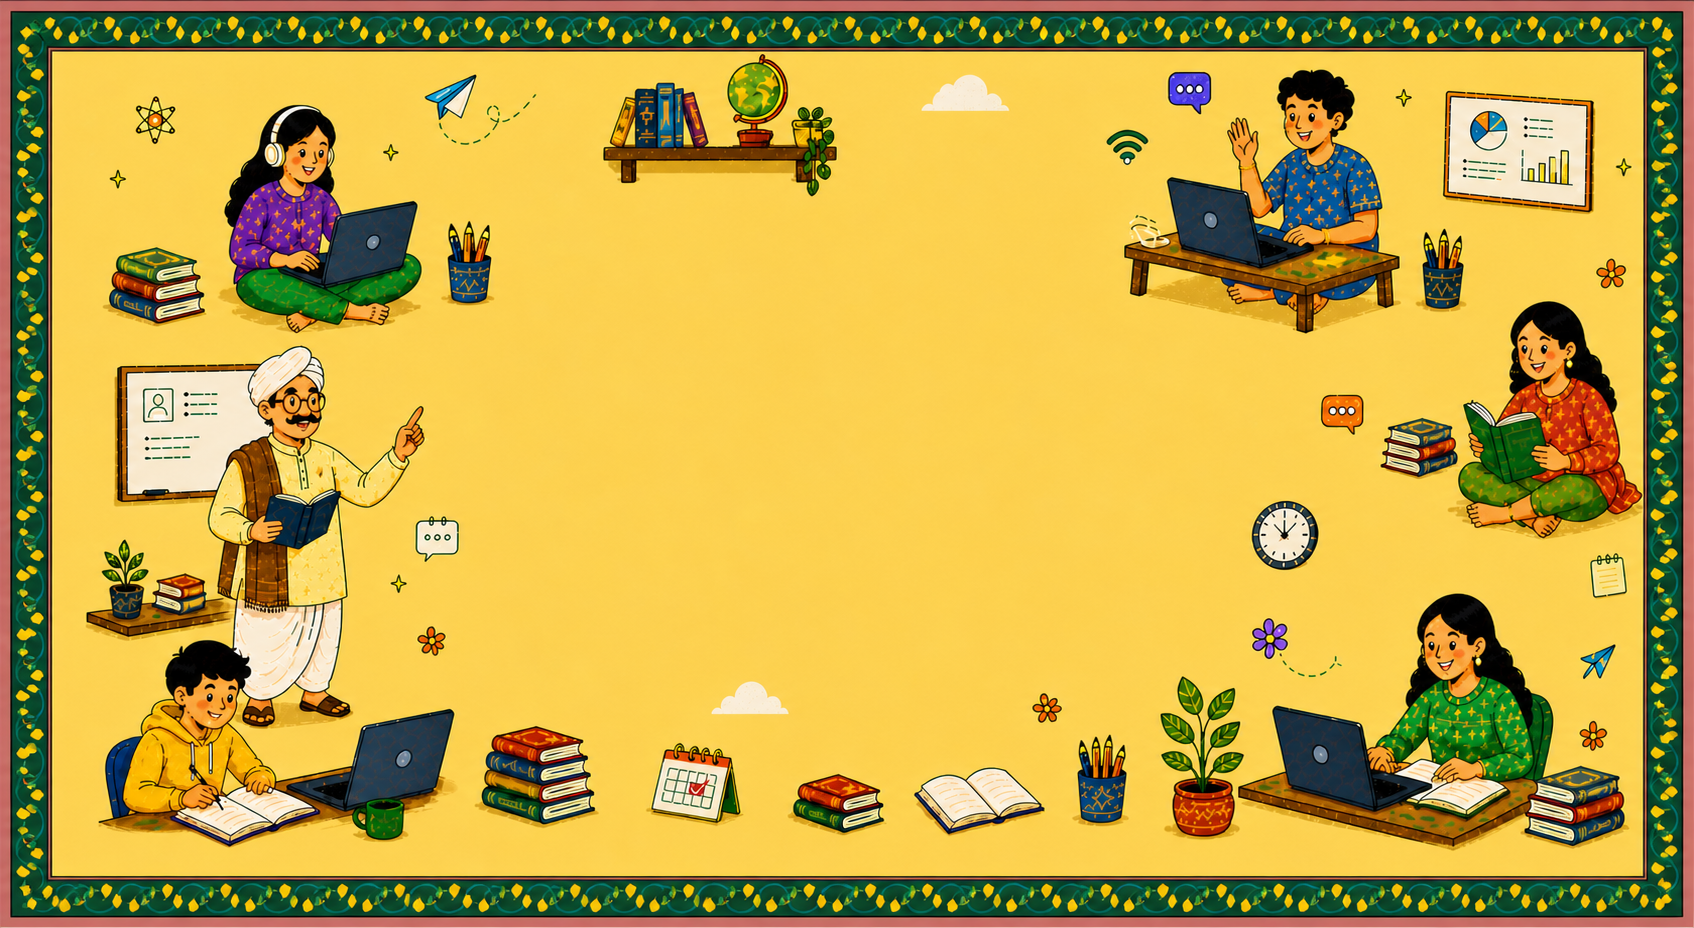
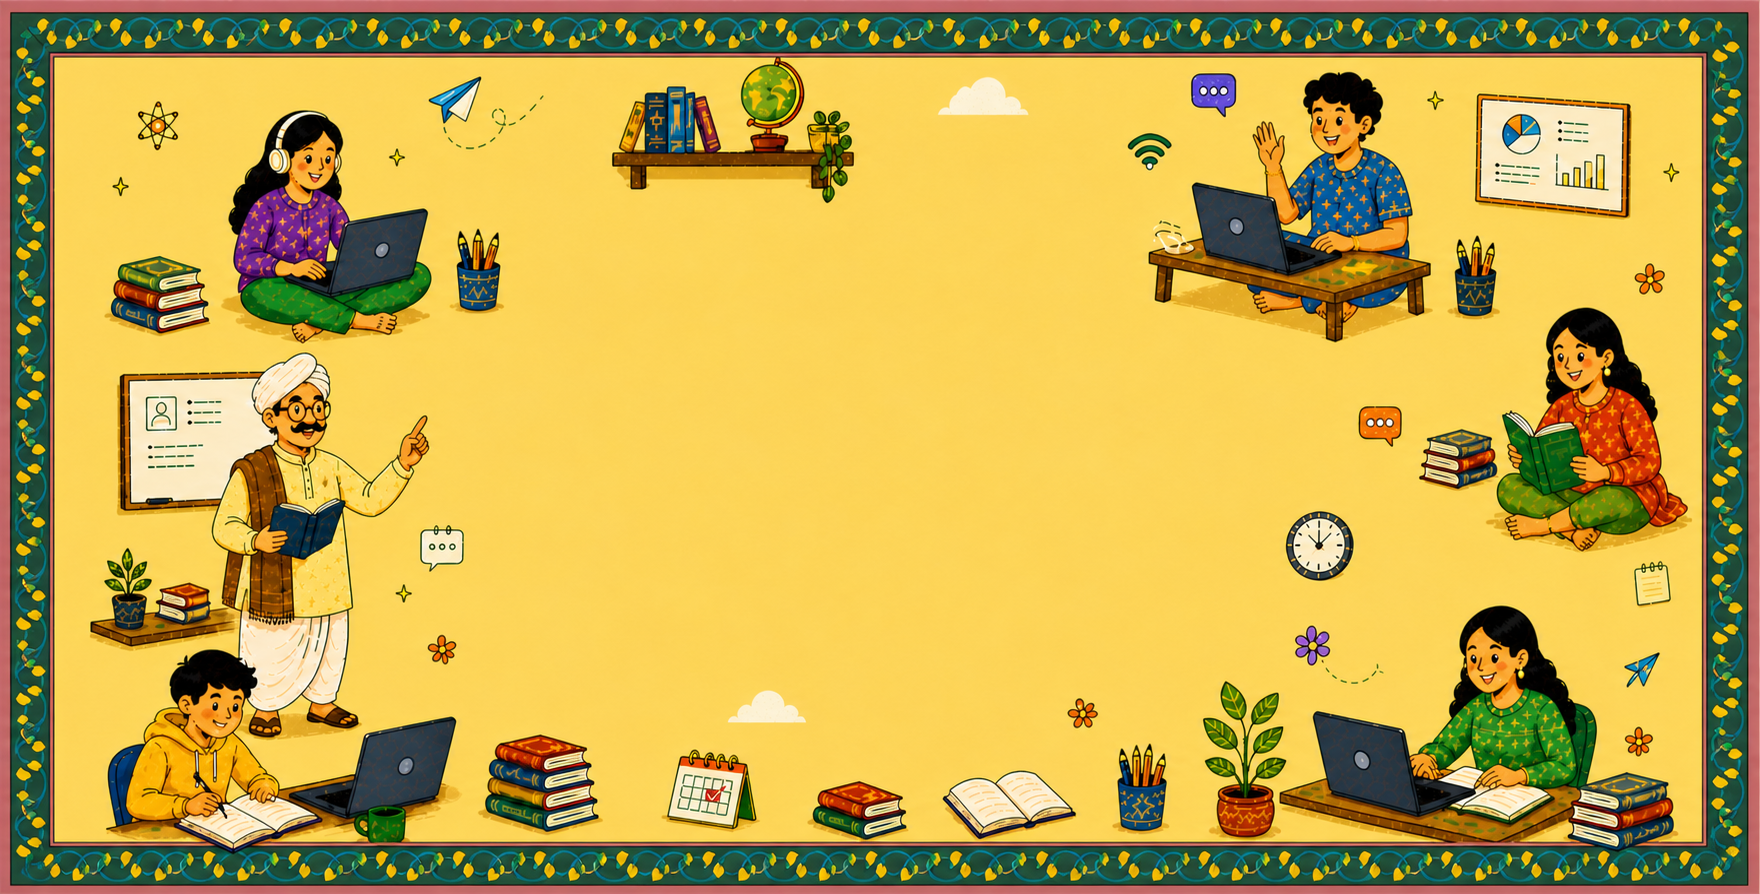
Background borders optimized

diff --git a/app/globals.css b/app/globals.css
@@ -969,18 +969,16 @@ h1 {
   position: absolute;
   inset: var(--home-frame-size);
   z-index: 0;
-  background:
-    radial-gradient(circle at 22% 28%, rgba(255, 255, 255, 0.42), transparent 24rem),
-    linear-gradient(135deg, #ffe372 0%, #f6c94c 46%, #f7a54f 100%);
+  background: url("/meetigate-home-background.png") center / 103% auto no-repeat;
 }
 
 .home-bg-art {
   inset: 0;
   width: 100% !important;
   height: 100% !important;
-  object-fit: cover;
+  object-fit: contain;
   object-position: center 52%;
-  transform: scale(1.03);
+  transform: scale(1.12);
   opacity: 0.92;
   padding: 0;
 }
@@ -1053,12 +1051,7 @@ h1 {
 }
 
 .home-card::before {
-  position: absolute;
-  inset: -28px -36px;
-  z-index: -1;
-  content: "";
-  background: radial-gradient(ellipse at center, rgba(255, 239, 166, 0.9), rgba(255, 221, 91, 0.36) 58%, transparent 74%);
-  filter: blur(10px);
+  display: none;
 }
 
 .home-kicker {
@@ -1159,7 +1152,7 @@ h1 {
     inset: 0;
     width: 100% !important;
     height: 100% !important;
-    object-fit: cover;
+    object-fit: contain;
     object-position: center 54%;
     padding: 0;
     opacity: 0.9;

diff --git a/app/page.tsx b/app/page.tsx
@@ -1,5 +1,5 @@
 import Link from "next/link";
-import Image from "next/image";
+import Script from "next/script";
 import { Nunito, Oxygen } from "next/font/google";
 
 const oxygen = Oxygen({
@@ -15,16 +15,8 @@ const nunito = Nunito({
 export default function Home() {
   return (
     <>
-      <main className="home-shell">
+      <main className="home-shell" suppressHydrationWarning>
         <div className="home-bg-wrap" aria-hidden="true">
-          <Image
-            src="/meetigate-home-background.png"
-            alt=""
-            fill
-            priority
-            className="home-bg-art"
-            sizes="100vw"
-          />
           <div className="home-bg-overlay" />
         </div>
         <section className="home-card" aria-label="Meeting app entry">
@@ -42,7 +34,8 @@ export default function Home() {
           </div>
         </section>
       </main>
-      <script
+      <Script
+        id="remove-home-canvases"
         dangerouslySetInnerHTML={{
           __html:
             'document.querySelectorAll(".home-shell canvas.p5Canvas, .home-shell #defaultCanvas0").forEach(function(canvas){canvas.remove();});'